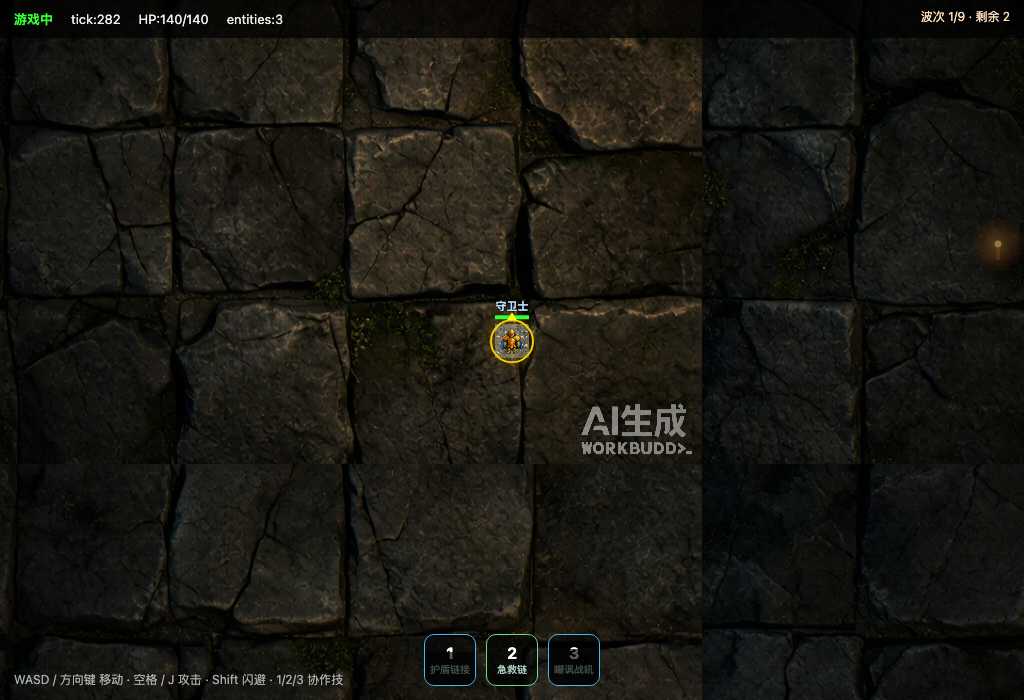
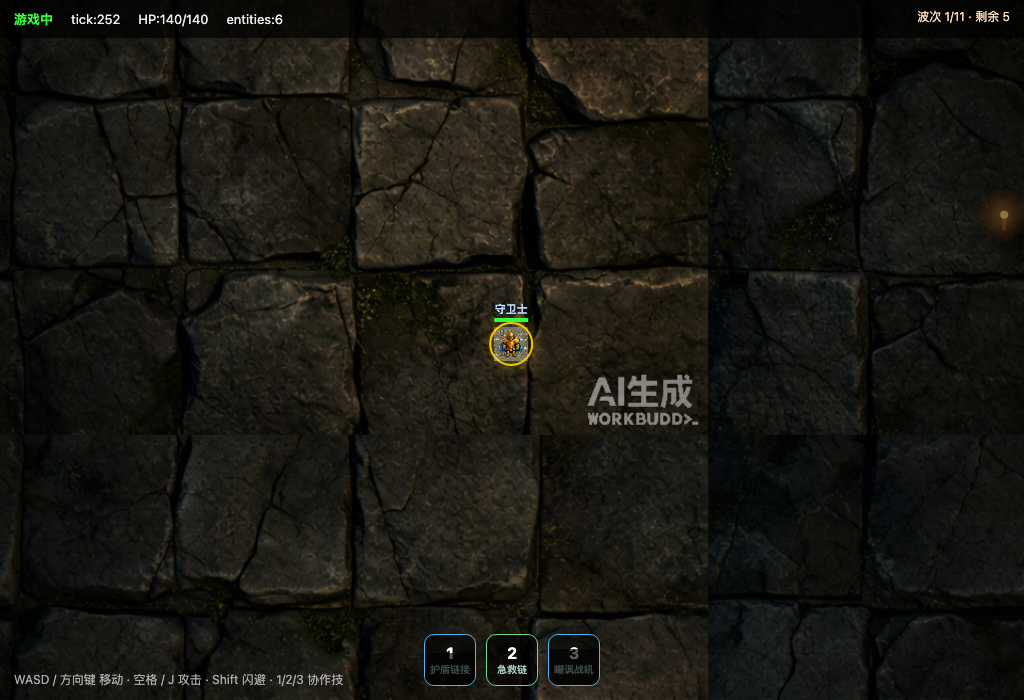
feat(games/dungeon-online): M11 death/hit particle juice (kill-feedback)
- client index.html: spawnBurst()/drawParticles() world-space bursts on
  enemy death/disappear; lastPos tracks last known pos for burst origin.
- GAME.particleCount + GAME.spawnBurst hook exposed for automation gate.
- verify-client.mjs: +1 gate (M11 particle burst) → 11/11 PASS.
- quality gate: netSpeed 214px/s, CoV 0.077, zero console/page errors.

diff --git a/games/dungeon-online/apps/web-client/index.html b/games/dungeon-online/apps/web-client/index.html
@@ -93,7 +93,10 @@ ws.binaryType = 'arraybuffer';
 const GAME = window.__game = {
   connected: false, lastSnapshot: null, localEntityId: null, gameState: 'connecting',
   fps: 0, errors: [], spritesLoaded: false, localRender: null, predicted: null, authPos: null,
+  particleCount: 0, // M11: live death/hit particle count (for automation gate)
 };
+// M11: expose spawnBurst so automation can deterministically trigger/verify the death-burst path.
+GAME.spawnBurst = spawnBurst;
 
 let state = 'connecting';
 let roomId = null, seatIndex = null, reconnectToken = null, runId = null;
@@ -139,6 +142,8 @@ const lastActiveSkill = new Map(); // actorId → {skillId, tick}
 const SKILL_LABEL = ['护盾链接', '急救链', '嘲讽战吼'];
 const SKILL_FX_COLOR = ['#6fd68a', '#f8d24a', '#f5a24a']; // 绿(护盾)/金(急救)/橙(嘲讽)，对齐 art-bible 阵营色/EMBER
 const castRings = [];         // co-op cast ground rings {id, skillId, x, y, born, color} (M8)
+const particles = [];         // death/hit particle bursts {x, y, vx, vy, born, life, color, r} (M11)
+const lastPos = new Map();    // actorId → {x, y} last known position (for death burst spawn) (M11)
 
 // ── sprite / art assets ──
 const SPRITE_SRC = {
@@ -423,12 +428,17 @@ function handleSnapshot(msg) {
       floaters.push({ x: e.pos.x, y: e.pos.y - 12, text: '+' + (e.hp - prev), color: '#5dff8a', born: performance.now(), life: 750 });
     }
     hpPrev.set(e.id, e.hp);
+    lastPos.set(e.id, { x: e.pos.x, y: e.pos.y }); // M11: remember last spot for death burst
   }
   let deathHappened = false, lootGone = false;
   for (const [id, kind] of knownIds) {
     if (!msg.entities.some(en => en.id === id)) {
       if (kind === 6) lootGone = true;
-      else if (kind === 1 || kind === 2) deathHappened = true;
+      else if (kind === 1 || kind === 2) {
+        deathHappened = true;
+        const p = lastPos.get(id) || { x: 0, y: 0 }; // M11: burst at last known position
+        spawnBurst(p.x, p.y, kind === 2 ? '#f93' : '#f86', kind === 2 ? 20 : 12);
+      }
     }
   }
   if (deathHappened) {
@@ -734,6 +744,44 @@ function drawCastRings() {
   ctx.restore();
 }
 
+// M11: death / hit particle bursts. Lightweight (max ~240 live), world-space, decay + gravity.
+function spawnBurst(x, y, color, count) {
+  for (let i = 0; i < count; i++) {
+    if (particles.length > 240) break;
+    const a = Math.random() * Math.PI * 2;
+    const sp = 40 + Math.random() * 110; // px/s
+    particles.push({
+      x, y,
+      vx: Math.cos(a) * sp,
+      vy: Math.sin(a) * sp - 40, // slight upward bias
+      born: performance.now(),
+      life: 420 + Math.random() * 280,
+      color,
+      r: 2 + Math.random() * 2.5,
+    });
+  }
+}
+
+function drawParticles() {
+  const now = performance.now();
+  ctx.save();
+  for (let i = particles.length - 1; i >= 0; i--) {
+    const p = particles[i];
+    const t = (now - p.born) / p.life;
+    if (t >= 1) { particles.splice(i, 1); continue; }
+    const dt = 0.016; // ~60fps step for motion
+    p.vy += 220 * dt; // gravity
+    p.x += p.vx * dt;
+    p.y += p.vy * dt;
+    ctx.globalAlpha = 1 - t;
+    ctx.fillStyle = p.color;
+    ctx.beginPath();
+    ctx.arc(p.x, p.y, p.r * (1 - 0.5 * t), 0, Math.PI * 2);
+    ctx.fill();
+  }
+  ctx.restore();
+}
+
 function drawCircleFallback(e, x, y, snap) {
   const isLocal = e.id === localEntityId;
   const isPlayer = e.kind === 0;
@@ -942,6 +990,8 @@ function draw() {
   GAME.bannerShown = waveBanner.classList.contains('show');
   // M8: expose any ally's activeSkill (co-op cast feedback source) for automation gate.
   GAME.anyActiveSkill = (snap.entities || []).some((e) => e.kind === 0 && e.activeSkill != null);
+  // M11: expose live particle count (death/hit juice) for automation gate.
+  GAME.particleCount = particles.length;
   // ── skill cooldown HUD ──
   const nowMs = performance.now();
   for (let i = 0; i < 3; i++) {
@@ -998,6 +1048,7 @@ function draw() {
   for (const e of snap.entities) {
     if (e.kind === 6) { const p = renderPosFor(e); drawLoot(e, p.x, p.y, snap); }
   }
+  drawParticles();   // M11: death/hit bursts (world space, under rings/floaters)
   drawCastRings();   // M8: co-op cast ground rings (under floaters, world space)
   drawFloaters();
 
